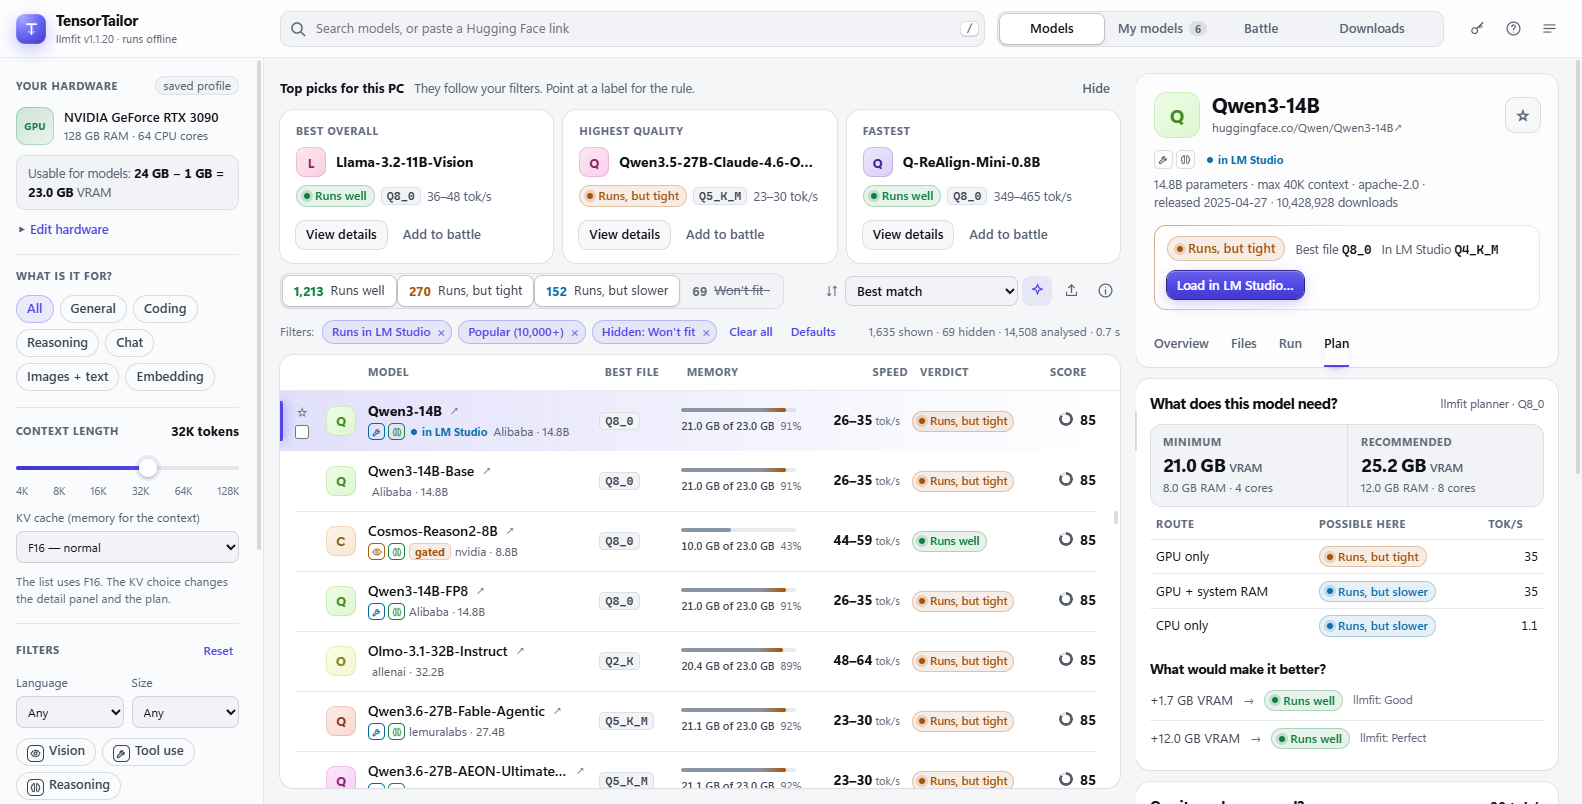
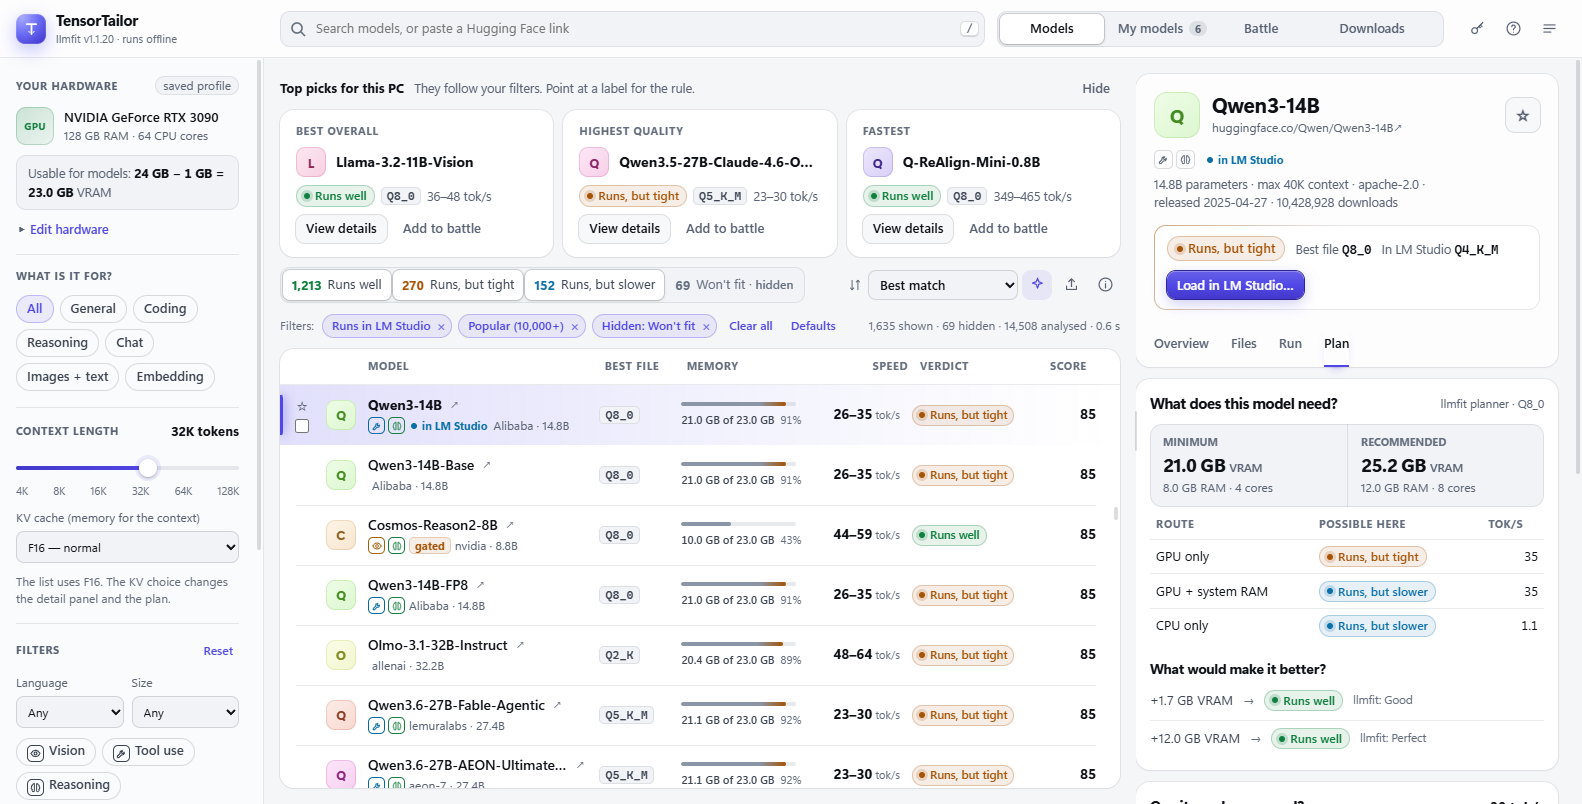
Implemented by Claude Opus 5.5: fix(web): the page fits a 1366 px screen
GUI review G1-G4, G6, G14. The list area and the detail panel are CSS containers now:
- a narrow list (below 780 px) leaves out the Best file column and tightens the others,
  so Verdict and Score no longer fall off the edge; the detail panel starts at 400 px
  below 1500 px wide (dragging still sets any width);
- verdict tile labels never break; a hidden tile says "hidden" instead of a line through
  the word (the stray dash was a struck-through dot); tiles and tools stay on one line
  at 1600 px and up;
- Top picks cards keep their buttons at the bottom and wrap them when narrow;
- the score is just the number (the small ring looked like a loading spinner);
- in a narrow detail panel the labels above the numbers wrap instead of "CONTE...";
- My models breaks names between words only, leaves out the Arch column on a narrow
  view and scrolls sideways instead of cutting off Show.
New test test-narrow (22 tests), Help updated, README pictures retaken.

diff --git a/web/app.html b/web/app.html
@@ -941,6 +941,39 @@ details.by-hand .hint { margin-top: 6px; }
 .upg-lv { font-size: 11.5px; color: var(--faint); }
 .notes li .upg-arrow { margin: 0 2px; }
 .btn.icon.key.on::after { content: ""; position: absolute; top: 6px; right: 6px; width: 7px; height: 7px; border-radius: 50%; background: var(--perfect); box-shadow: 0 0 0 2px var(--bg); }
+/* ==== Narrow screens (about 1366 px wide) and small fixes from the GUI review ==== */
+/* The detail panel starts a little narrower below 1500 px (dragging its edge still sets any width). */
+@media (max-width: 1500px) { .layout { grid-template-columns: 264px minmax(0, 1fr) var(--dw, 400px); } }
+/* The list area is a container: the list, tiles and cards follow its width, not the window's. */
+.center { container: center / inline-size; }
+/* Verdict tiles: a label never breaks; a hidden tile says "hidden" instead of a line through the word. */
+.tile .n, .tile .l { white-space: nowrap; }
+.tile, .tile[aria-pressed="false"] { padding: 0 9px; gap: 6px; }
+.tile[aria-pressed="false"] .l { text-decoration: none; color: var(--faint); }
+.tile .off { display: inline; font-size: 12px; font-weight: 500; text-transform: none; letter-spacing: 0; color: var(--faint); }
+.list-head { flex-wrap: wrap; row-gap: 8px; }
+.list-tools { margin-left: auto; }
+.list-tools select { max-width: 150px; }
+/* Top picks cards: the buttons at the bottom of every card, on a second line when the card is narrow. */
+.sug .acts { margin-top: auto; flex-wrap: wrap; }
+/* Score: just the number (a small ring looked like a loading spinner, a short bar like a minus sign). */
+.score i { display: none; }
+/* A narrow list leaves out the Best file column (the detail panel shows it) and tightens the others. */
+@container center (max-width: 780px) {
+  .cols, .row { grid-template-columns: 24px 30px minmax(150px, 2.3fr) minmax(96px, 1.2fr) 84px 108px 48px; gap: 10px; }
+  .cols > :nth-child(4), .row > :nth-child(4) { display: none; }
+  .sk-row { grid-template-columns: 30px minmax(150px, 2.3fr) minmax(96px, 1.2fr) 84px 108px 48px; gap: 10px; }
+  .sk-row > :nth-child(3) { display: none; }
+}
+/* The detail panel is a container too: when it is narrow, the labels above its numbers may wrap instead of "CONTE…". */
+.detail { container: detail / inline-size; }
+@container detail (max-width: 440px) { .stat .k { white-space: normal; overflow: visible; letter-spacing: .03em; } }
+/* My models: a name breaks between words only; a narrow view leaves out the Arch column (MTP also shows under
+   State); the table scrolls sideways instead of cutting off Show. */
+.view-pane { container: view / inline-size; }
+.mtable .d-id { overflow-wrap: normal; word-break: normal; }
+.mine-card { overflow-x: auto; }
+@container view (max-width: 1150px) { .mine-card .mtable th:nth-child(2), .mine-card .mtable td:nth-child(2) { display: none; } }
 </style>
 </head>
 <body>
@@ -1173,7 +1206,7 @@ details.by-hand .hint { margin-top: 6px; }
     <h3>Above the list</h3>
     <dl>
       <dt>Top picks for this PC</dt><dd>Three suggestions that follow your filters: <b>Best overall</b>, <b>Highest quality</b> and <b>Fastest</b>, each with its verdict, file and speed. <b>View details</b> opens the model; <b>Add to battle</b> puts it in Battle. Closed, they are one slim strip with the three names (click a name to open it); the arrow at its right, or the sparkle button next to Sort, shows them as cards; <b>Hide</b> folds the cards back into the strip.</dd>
-      <dt>The four tiles</dt><dd>The segments at the left of the toolbar count each verdict. Click one to show or hide those models; a hidden one is crossed out and grey.</dd>
+      <dt>The four tiles</dt><dd>The segments at the left of the toolbar count each verdict. Click one to show or hide those models; a hidden one is grey and says "hidden".</dd>
       <dt>Count line</dt><dd>At the right of the filter chips: how many models are shown, how many the tiles hide, how many llmfit analysed, and how long that took.</dd>
       <dt>Filter chips</dt><dd>Every active filter is a chip: click its × to remove it. <b>Clear all</b> shows every analysed model; <b>Defaults</b> gives the start values.</dd>
       <dt>Export CSV</dt><dd>The arrow-up button next to Sort: saves the shown list as a CSV file (for a spreadsheet).</dd>
@@ -1184,7 +1217,7 @@ details.by-hand .hint { margin-top: 6px; }
     <h3>The columns</h3>
     <dl>
       <dt>Model</dt><dd>The name (↗ opens it on Hugging Face), its labels and icons (see below), the publisher and the number of parameters: B = billion, M = million. More parameters usually means smarter, but bigger and slower. The star makes it a favorite; the box selects it for compare or battle.</dd>
-      <dt>Best file</dt><dd>The quantization (file version) llmfit picks for this PC. Q8_0 is close to the original quality; Q6, Q5, Q4, Q3, Q2 are smaller and faster, but less precise. F16/BF16 = original size.</dd>
+      <dt>Best file</dt><dd>The quantization (file version) llmfit picks for this PC. Q8_0 is close to the original quality; Q6, Q5, Q4, Q3, Q2 are smaller and faster, but less precise. F16/BF16 = original size. When the list is narrow (a screen about 1366 px wide), this column is left out; the detail panel shows it.</dd>
       <dt>Memory</dt><dd>The memory bar (see above), with the memory the model needs.</dd>
       <dt>Speed</dt><dd>Tokens per second (a token is about ¾ of a word). A range, because it is an estimate. About 7 tok/s is reading pace.</dd>
       <dt>Verdict</dt><dd>How well it runs here, and where it runs (GPU, CPU+GPU, MoE offload, CPU).</dd>
@@ -1247,7 +1280,7 @@ details.by-hand .hint { margin-top: 6px; }
     <h3>The detail panel (right)</h3>
     <dl>
       <dt>Top of the panel</dt><dd>The answer first: the verdict, the best file for this PC, the file you have in LM Studio (if any), and one action: <b>Load in LM Studio…</b> or <b>Choose a file to download</b>. The star button (☆) at the right stars the model as a favorite. Below the name: the labels, and one line with the facts (parameters, maximum context, license with "(gated)" or "(not gated)", release date, downloads). This part stays in view while you scroll; it shrinks to the name, the answer and the tabs.</dd>
-      <dt>Panel width</dt><dd>Drag the thin line at the left edge of the detail panel to make it wider or narrower (or click it and use the arrow keys). Double-click the line for the normal width. The width is remembered in this browser.</dd>
+      <dt>Panel width</dt><dd>Drag the thin line at the left edge of the detail panel to make it wider or narrower (or click it and use the arrow keys). Double-click the line for the normal width (a little narrower on screens below 1500 px). The width is remembered in this browser.</dd>
       <dt>Overview</dt><dd>One quiet line (runs on, llmfit's own level, estimated or measured), then speed, memory, best file and context, and "Which file fits?" for every quantization (the verdict itself is at the top of the panel). When llmfit's planner (more safety room) rates the best file lower than the list, a yellow note says so and names the best file that runs well. <b>Preview speed</b> shows how fast text appears at that speed. "Why this result" lists llmfit's reasons.</dd>
       <dt>KV cache from a real file</dt><dd>llmfit counts the memory for the context (the KV cache) exactly only when it knows a model's layers and head size. For about 4,900 models in its list it does not, and uses a rough rule. When TensorTailor reads a real GGUF file of such a model (your file in My models, or a file in the Files or Run tab), it fills in the missing values from the file's header. It never changes a value llmfit has, and skips a file that does not match. "Why this result" then says "KV cache counted from the GGUF header of …", and My models lists your models it did this for. Remembered in this browser.</dd>
       <dt>Files</dt><dd>The real files on Hugging Face, one line per file (point at a long name for the full name; the copy button copies the download link), the file "best for this PC" first, and the verdict per file. <b>Download</b> saves a file into your folder and checks its SHA-256 at the end. <b>Show SHA-256 of each file</b> (under the table) shows the codes; click one to copy it.</dd>
@@ -1259,7 +1292,7 @@ details.by-hand .hint { margin-top: 6px; }
     <h3>Views (top) and keys</h3>
     <dl>
       <dt>Models · My models · Battle · Downloads</dt><dd>Click to switch, or press <kbd>1</kbd> to <kbd>4</kbd>. <kbd>Esc</kbd> always brings you back to Models.</dd>
-      <dt>My models</dt><dd>The models in your LM Studio (its server must be on: Developer tab → server on), with their size on disk, whether they are loaded, the verdict and speed here. The speed is for <b>your</b> file: llmfit counts its own best file (often another quant), so its range is scaled to the size of your file (point at the speed for both). <b>Show</b> opens the model in Models. "bundled with LM Studio" marks the embedding model that comes with LM Studio itself (it is not in your models folder; LM Studio uses it to search documents you add to a chat).</dd>
+      <dt>My models</dt><dd>The models in your LM Studio (its server must be on: Developer tab → server on), with their size on disk, whether they are loaded, the verdict and speed here. The speed is for <b>your</b> file: llmfit counts its own best file (often another quant), so its range is scaled to the size of your file (point at the speed for both). On a narrow screen the Arch column is left out (MTP still shows under State). <b>Show</b> opens the model in Models. "bundled with LM Studio" marks the embedding model that comes with LM Studio itself (it is not in your models folder; LM Studio uses it to search documents you add to a chat).</dd>
       <dt>My models: your files</dt><dd>My models asks once for LM Studio's models folder (the same folder as for Downloads). TensorTailor matches each model to its file by size and reads only the start of the file. The Arch column then shows the layers and the maximum context ("65 layers · max 256K"); point at it for the KV cache figures (KV heads, head size, how many layers keep the whole context). For models that TensorTailor added itself ("live" or "from LM Studio"), llmfit then counts the KV cache exactly instead of roughly. When LM Studio does not name the quant, the file name tells it.</dd>
       <dt>My models: MTP labels</dt><dd><span class="tag okay">MTP on</span> / <span class="tag">MTP off</span>: LM Studio's own setting for a loaded model. <span class="tag okay">MTP in file</span>: the header of your model file has MTP layers. <span class="tag">MTP (name)</span>: only the name says MTP; read your files to know for sure. "no MTP in file": the name says MTP, the file has none.</dd>
       <dt>My models: summary cards</dt><dd>Five cards at the top: <b>Models</b> (and how many files TensorTailor read from your folder), <b>On disk</b>, <b>Updates</b> (files with a newer version on Hugging Face), <b>Similar</b> (space of models made from the same base model, and how much keeping one per group would free) and <b>Measured</b> (your real speed as a share of llmfit's estimate). The details are in the lines above the table and in the rows.</dd>
